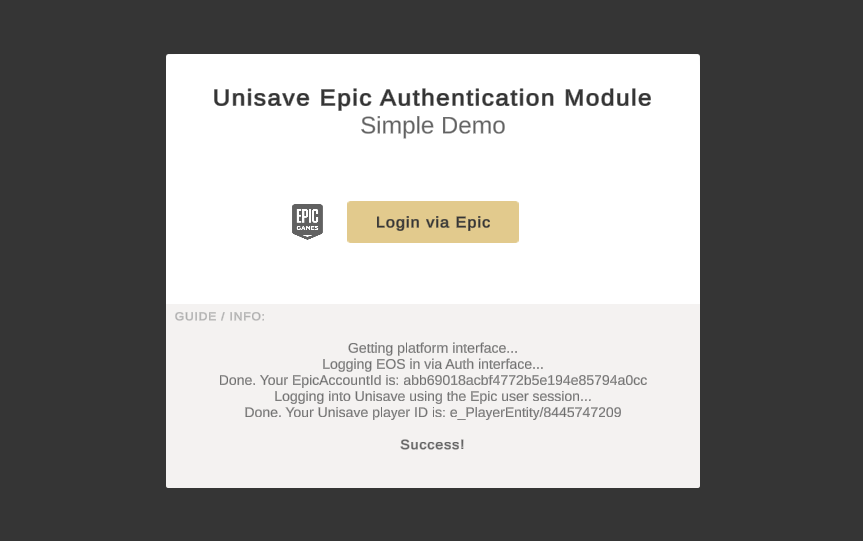
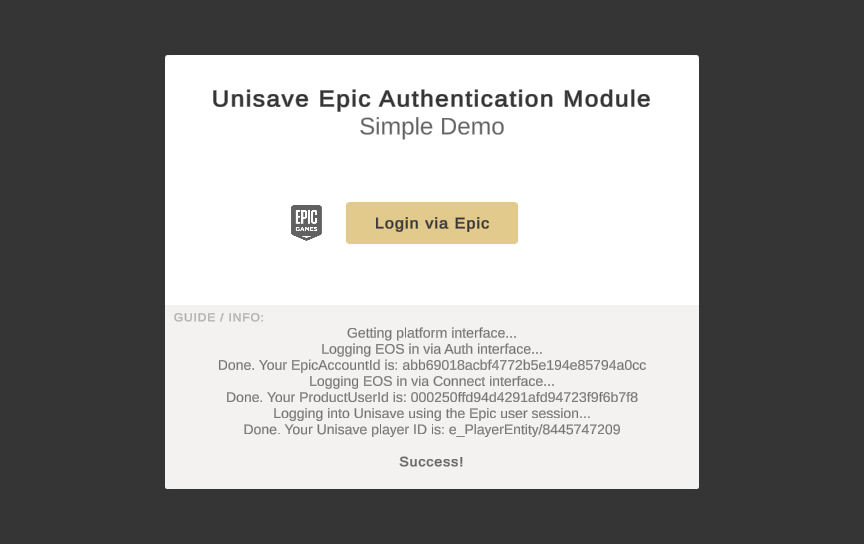
PUID in the login sequence

diff --git a/src/docs/epic-authentication/epic-authentication.md b/src/docs/epic-authentication/epic-authentication.md
@@ -95,7 +95,7 @@ If we open the database and find the player document, we see that it's connected
     "_rev": "_giUsKhS---",
     "_key": "8445747209",
     "epicAccountId": "abb69018acbf4772b5e194e85794a0cc",
-    "epicProductUserId": null,
+    "epicProductUserId": "000250ffd94d4291afd94723f9f6b7f8",
     "lastLoginAt": "2023-08-30T09:02:38.557Z",
     "CreatedAt": "2023-08-18T13:11:04.382Z",
     "UpdatedAt": "2023-08-30T09:02:38.576Z"
@@ -190,7 +190,7 @@ Epic.OnlineServices.Auth.LoginCallbackInfo info
     = await sdkComponent.AuthLogin();
 
 if (info.ResultCode == Result.Success)
-    Debug.Log("Your EpicAccoundId: " + info.LocalUserId);
+    Debug.Log("Your EpicAccoundId: " + sdkComponent.EpicAccountId);
 else
     Debug.Log("Login failed: " + info.ResultCode);
 ```
@@ -208,11 +208,12 @@ This does no talking to Unisave. This only logs in the game client and gets the 
 Then the `sdkComponent.ConnectLoginOrRegister` method is called.
 
 ```cs
-using Epic.OnlineServices.Connect; // ??
+Epic.OnlineServices.Result result = await sdkComponent.ConnectLoginOrRegister();
 
-TODO todo = await sdkComponent.ConnectLoginOrRegister();
-
-// ... TODO TODO TODO ...
+if (result == Result.Success)
+    Debug.Log("Your ProductUserId: " + sdkComponent.ProductUserId);
+else
+    Debug.Log("Login failed: " + result);
 ```
 
 This methods performs a similar login to *EOS Game Services* (a subset of EOS), which uses [the Connect interface](https://dev.epicgames.com/docs/game-services/eos-connect-interface) to log in. More specifically, this method registers a *Product User* for the *Epic Account* if there is none, or logs in, if the player already has one.
@@ -306,6 +307,8 @@ PlatformInterface platform = sdkComponent.PlatformInterface;
 ```
 
 It will return `null` if the interface has not been initialized yet, or has failed initializing.
+
+**TODO: sdkComponent.EpicAccountId and sdkComponent.ProductUserId fields exist, use them, they're null when logged out**
 
 
 ### Auth interface login methods
